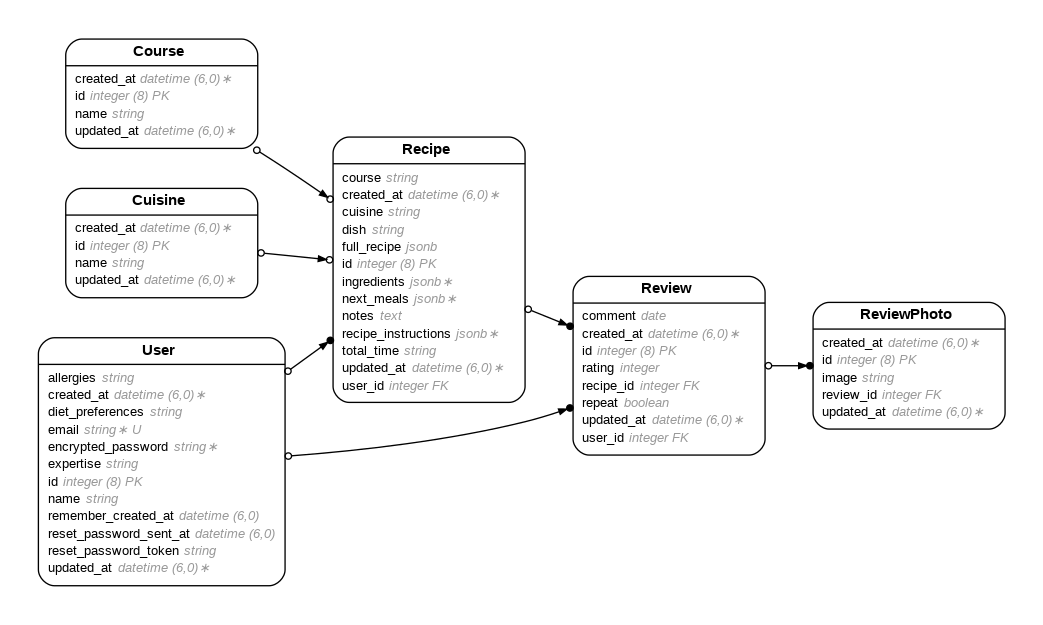
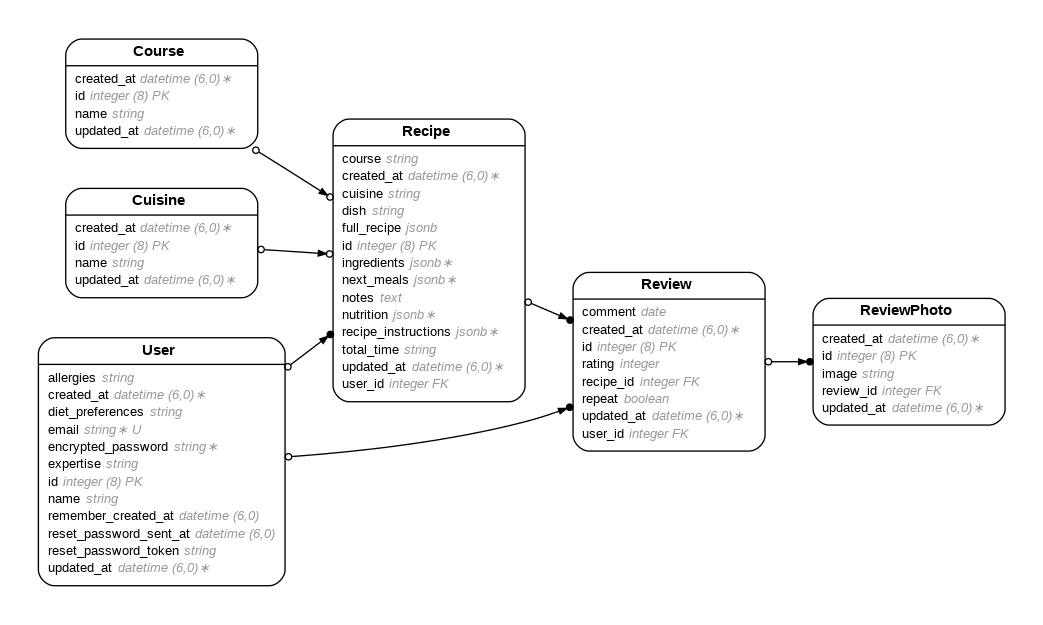
only next meals remaining

diff --git a/db/schema.rb b/db/schema.rb
@@ -10,7 +10,7 @@
 #
 # It's strongly recommended that you check this file into your version control system.
 
-ActiveRecord::Schema[7.1].define(version: 2025_05_17_190451) do
+ActiveRecord::Schema[7.1].define(version: 2025_05_18_000058) do
   # These are extensions that must be enabled in order to support this database
   enable_extension "plpgsql"
 
@@ -39,6 +39,7 @@ ActiveRecord::Schema[7.1].define(version: 2025_05_17_190451) do
     t.string "total_time"
     t.jsonb "recipe_instructions", default: [], null: false
     t.jsonb "next_meals", default: [], null: false
+    t.jsonb "nutrition", default: [], null: false
   end
 
   create_table "review_photos", force: :cascade do |t|

diff --git a/app/controllers/recipes_controller.rb b/app/controllers/recipes_controller.rb
@@ -50,7 +50,10 @@ class RecipesController < ApplicationController
       the_recipe.total_time = data["totalTime"]
       the_recipe.recipe_instructions = data["recipeInstructions"]
       the_recipe.next_meals = data["nextMeals"]
+      the_recipe.nutrition = data["nutrition"]
       the_recipe.save
+
+
       redirect_to("/recipes/"+the_recipe.id.to_s, { :notice => "Recipe created successfully." })
     else
       redirect_to("/recipes", { :alert => the_recipe.errors.full_messages.to_sentence })

diff --git a/app/models/recipe.rb b/app/models/recipe.rb
@@ -10,6 +10,7 @@
 #  ingredients         :jsonb            not null
 #  next_meals          :jsonb            not null
 #  notes               :text
+#  nutrition           :jsonb            not null
 #  recipe_instructions :jsonb            not null
 #  total_time          :string
 #  created_at          :datetime         not null

diff --git a/db/migrate/20250518000058_add_nutrition_to_recipes.rb b/db/migrate/20250518000058_add_nutrition_to_recipes.rb
@@ -1,0 +1,5 @@
+class AddNutritionToRecipes < ActiveRecord::Migration[7.1]
+  def change
+    add_column :recipes, :nutrition, :jsonb, default:[],null:false
+  end
+end
